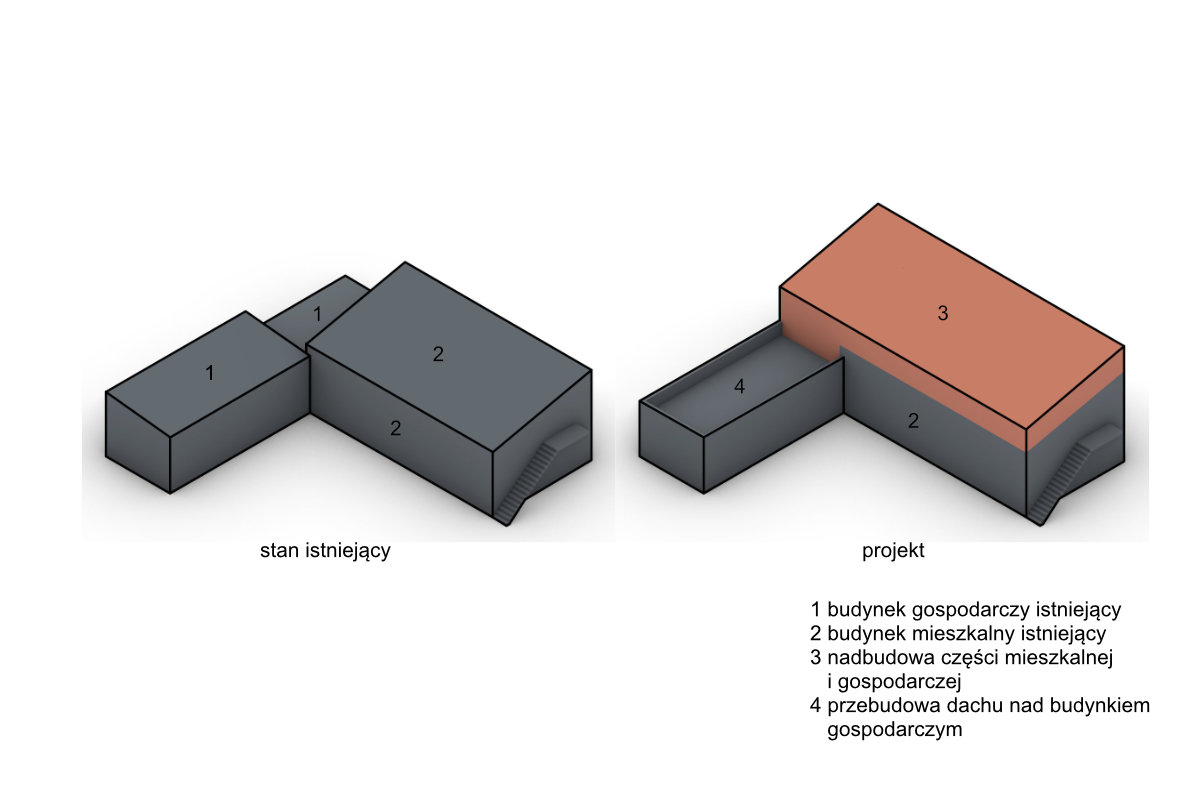
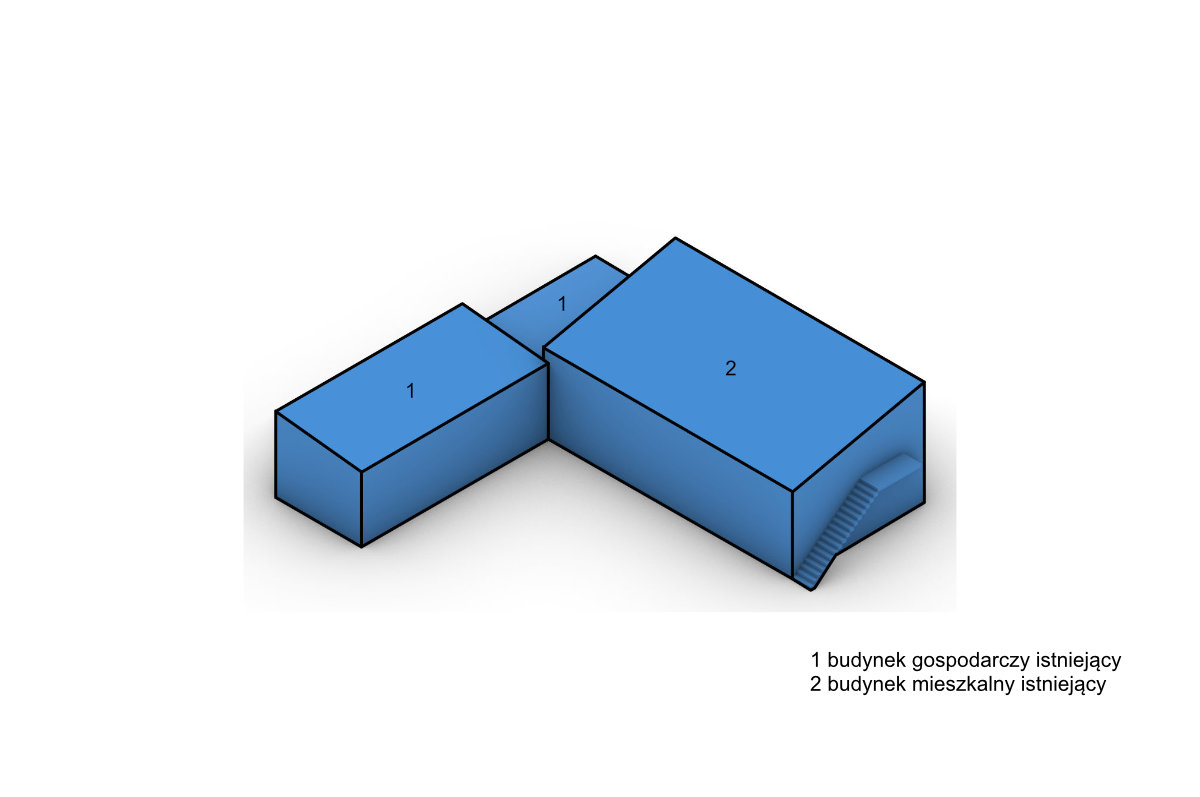
korekta261026

Changed region(s): [[0.0617, 0.2409, 0.9558, 0.9335]]

diff --git a/index.html b/index.html
@@ -40,8 +40,9 @@
 							<p></p>
 						</article>
 						<article class="thumb">
-							<a href="images/fulls/03a.jpg" class="image" rel="project2" data-caption="Aksonometria"><img src="images/fulls/03a.jpg" alt="Projekt 2" /></a>
-							<a href="images/fulls/03b.jpg" class="image" rel="project2" data-caption="Podstawowe dane" style="display: none;"></a>
+							<a href="images/fulls/03a.jpg" class="image" rel="project2" data-caption="Aksonometria - stan istniejący"><img src="images/fulls/03a.jpg" alt="Projekt 2" /></a>
+							<a href="images/fulls/03b.jpg" class="image" rel="project2" data-caption="Aksonometria - projekt" style="display: none;"></a>
+							<a href="images/fulls/03c.jpg" class="image" rel="project2" data-caption="Podstawowe dane" style="display: none;"></a>
 							<h2>PRZEBUDOWA I NADBUDOWA DOMU JEDNORODZINNEGO W WARSZAWIE</h2>
 							<p></p>
 						</article>
